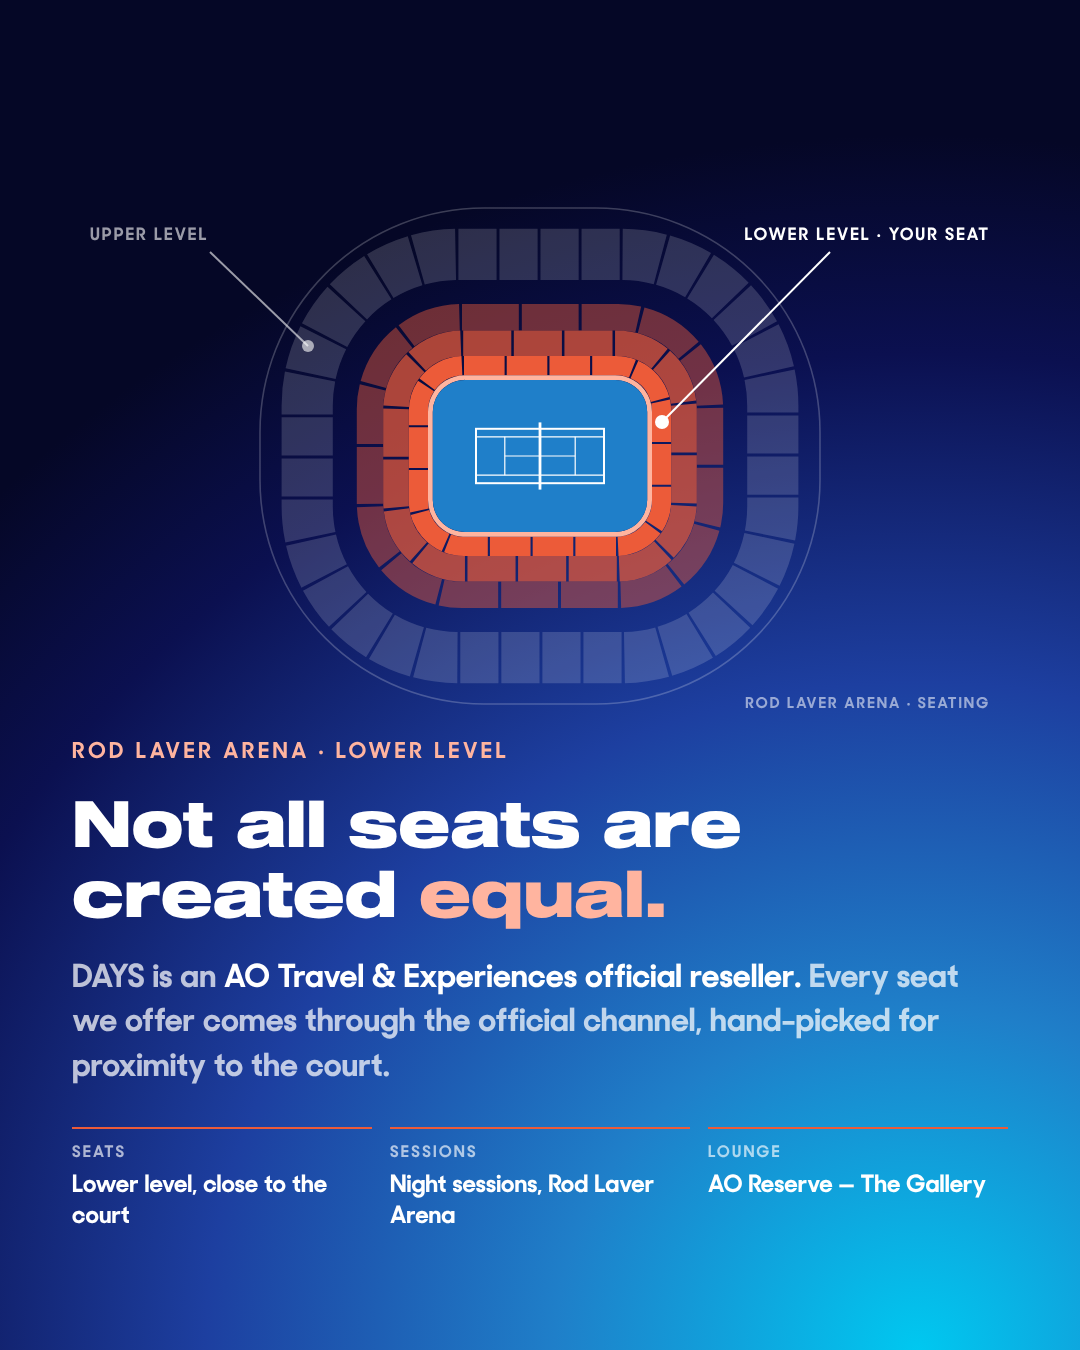
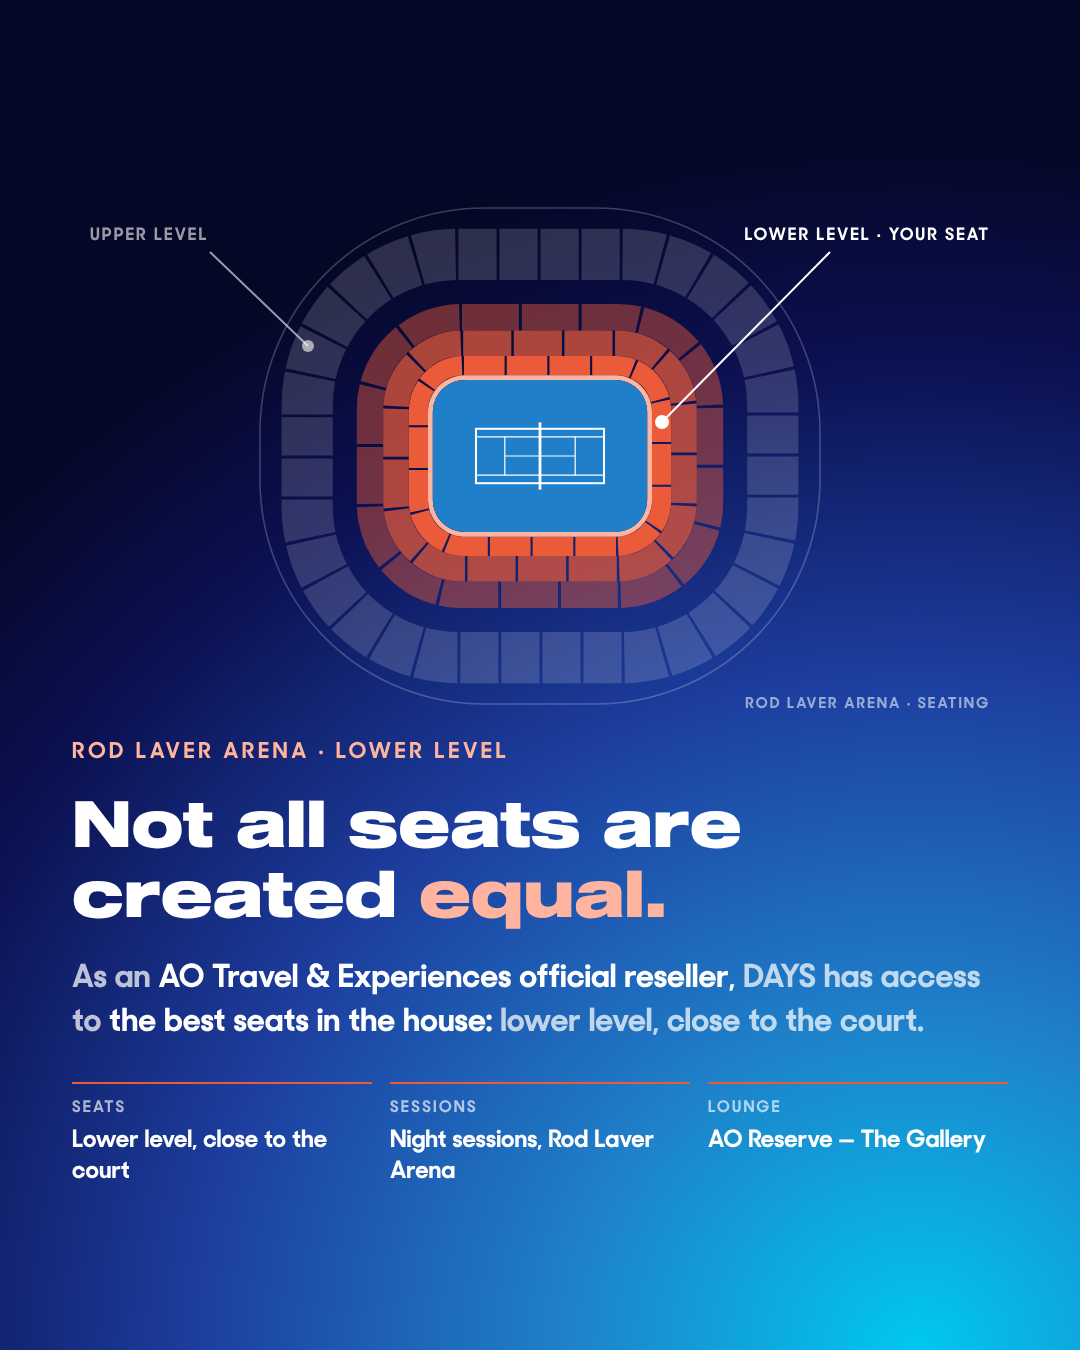
AO 2027: lead with access to the best seats, not the official channel
Updates Post 1 captions (English and Bahasa) and the slide 3 copy.

Claude-Session: https://claude.ai/code/session_01Eb5aT3tpEevDBBbf6MCDFd

diff --git a/social/ao-2027/slides.html b/social/ao-2027/slides.html
@@ -143,7 +143,7 @@ h1,h2{font-family:"Sequel 100 Wide",sans-serif;font-weight:400;letter-spacing:0;
   <div class="copy">
     <p class="eyebrow" style="color:#FFB49F">Rod Laver Arena · Lower level</p>
     <h2>Not all seats are created <span style="color:#FFB49F">equal.</span></h2>
-    <p class="lede">DAYS is an <b>AO Travel &amp; Experiences official reseller.</b> Every seat we offer comes through the official channel, hand-picked for proximity to the court.</p>
+    <p class="lede">As an <b>AO Travel &amp; Experiences official reseller,</b> DAYS has access to <b>the best seats in the house:</b> lower level, close to the court.</p>
     <ul>
       <li><span>SEATS</span>Lower level, close to the court</li>
       <li><span>SESSIONS</span>Night sessions, Rod Laver Arena</li>

diff --git a/social/ao-2027/caption.md b/social/ao-2027/caption.md
@@ -33,9 +33,9 @@ Upload each folder's files in filename order.
 
 For those who want to experience the game closer.
 
-DAYS is now an AO Travel & Experiences official reseller for the Australian Open 2027. Our seats come through the official channel, and we choose them for one thing: how close they put you to the court.
+DAYS is now an AO Travel & Experiences official reseller for the Australian Open 2027. That means access to the best seats in the house: the lower level at Rod Laver Arena, close enough to hear the ball come off the strings.
 
-Lower level at Rod Laver Arena. Night sessions under the lights. Access to AO Reserve — The Gallery. And around it all, Melbourne in late January: laneway coffee, long summer evenings, a whole city tuned to one tournament.
+Night sessions under the lights. Access to AO Reserve — The Gallery. And around it all, Melbourne in late January: laneway coffee, long summer evenings, a whole city tuned to one tournament.
 
 You're not just watching tennis. You're experiencing the Australian Open differently.
 
@@ -47,9 +47,9 @@ DM us or WhatsApp +62 812-2000-0185.
 
 Untuk kamu yang ingin merasakan pertandingan lebih dekat.
 
-DAYS kini resmi menjadi AO Travel & Experiences official reseller untuk Australian Open 2027. Kursi kami datang dari jalur resmi, dan kami pilih untuk satu hal: seberapa dekat kamu dengan lapangan.
+DAYS kini resmi menjadi AO Travel & Experiences official reseller untuk Australian Open 2027. Artinya, akses ke kursi terbaik: lower level di Rod Laver Arena, cukup dekat untuk mendengar bola memantul dari senar raket.
 
-Lower level di Rod Laver Arena. Night session di bawah lampu stadion. Akses ke AO Reserve — The Gallery. Dan di sekelilingnya, Melbourne di akhir Januari: kopi di laneway, sore musim panas yang panjang, satu kota yang larut dalam satu turnamen.
+Night session di bawah lampu stadion. Akses ke AO Reserve — The Gallery. Dan di sekelilingnya, Melbourne di akhir Januari: kopi di laneway, sore musim panas yang panjang, satu kota yang larut dalam satu turnamen.
 
 Bukan sekadar nonton tenis. Ini cara lain merasakan Australian Open.
 
